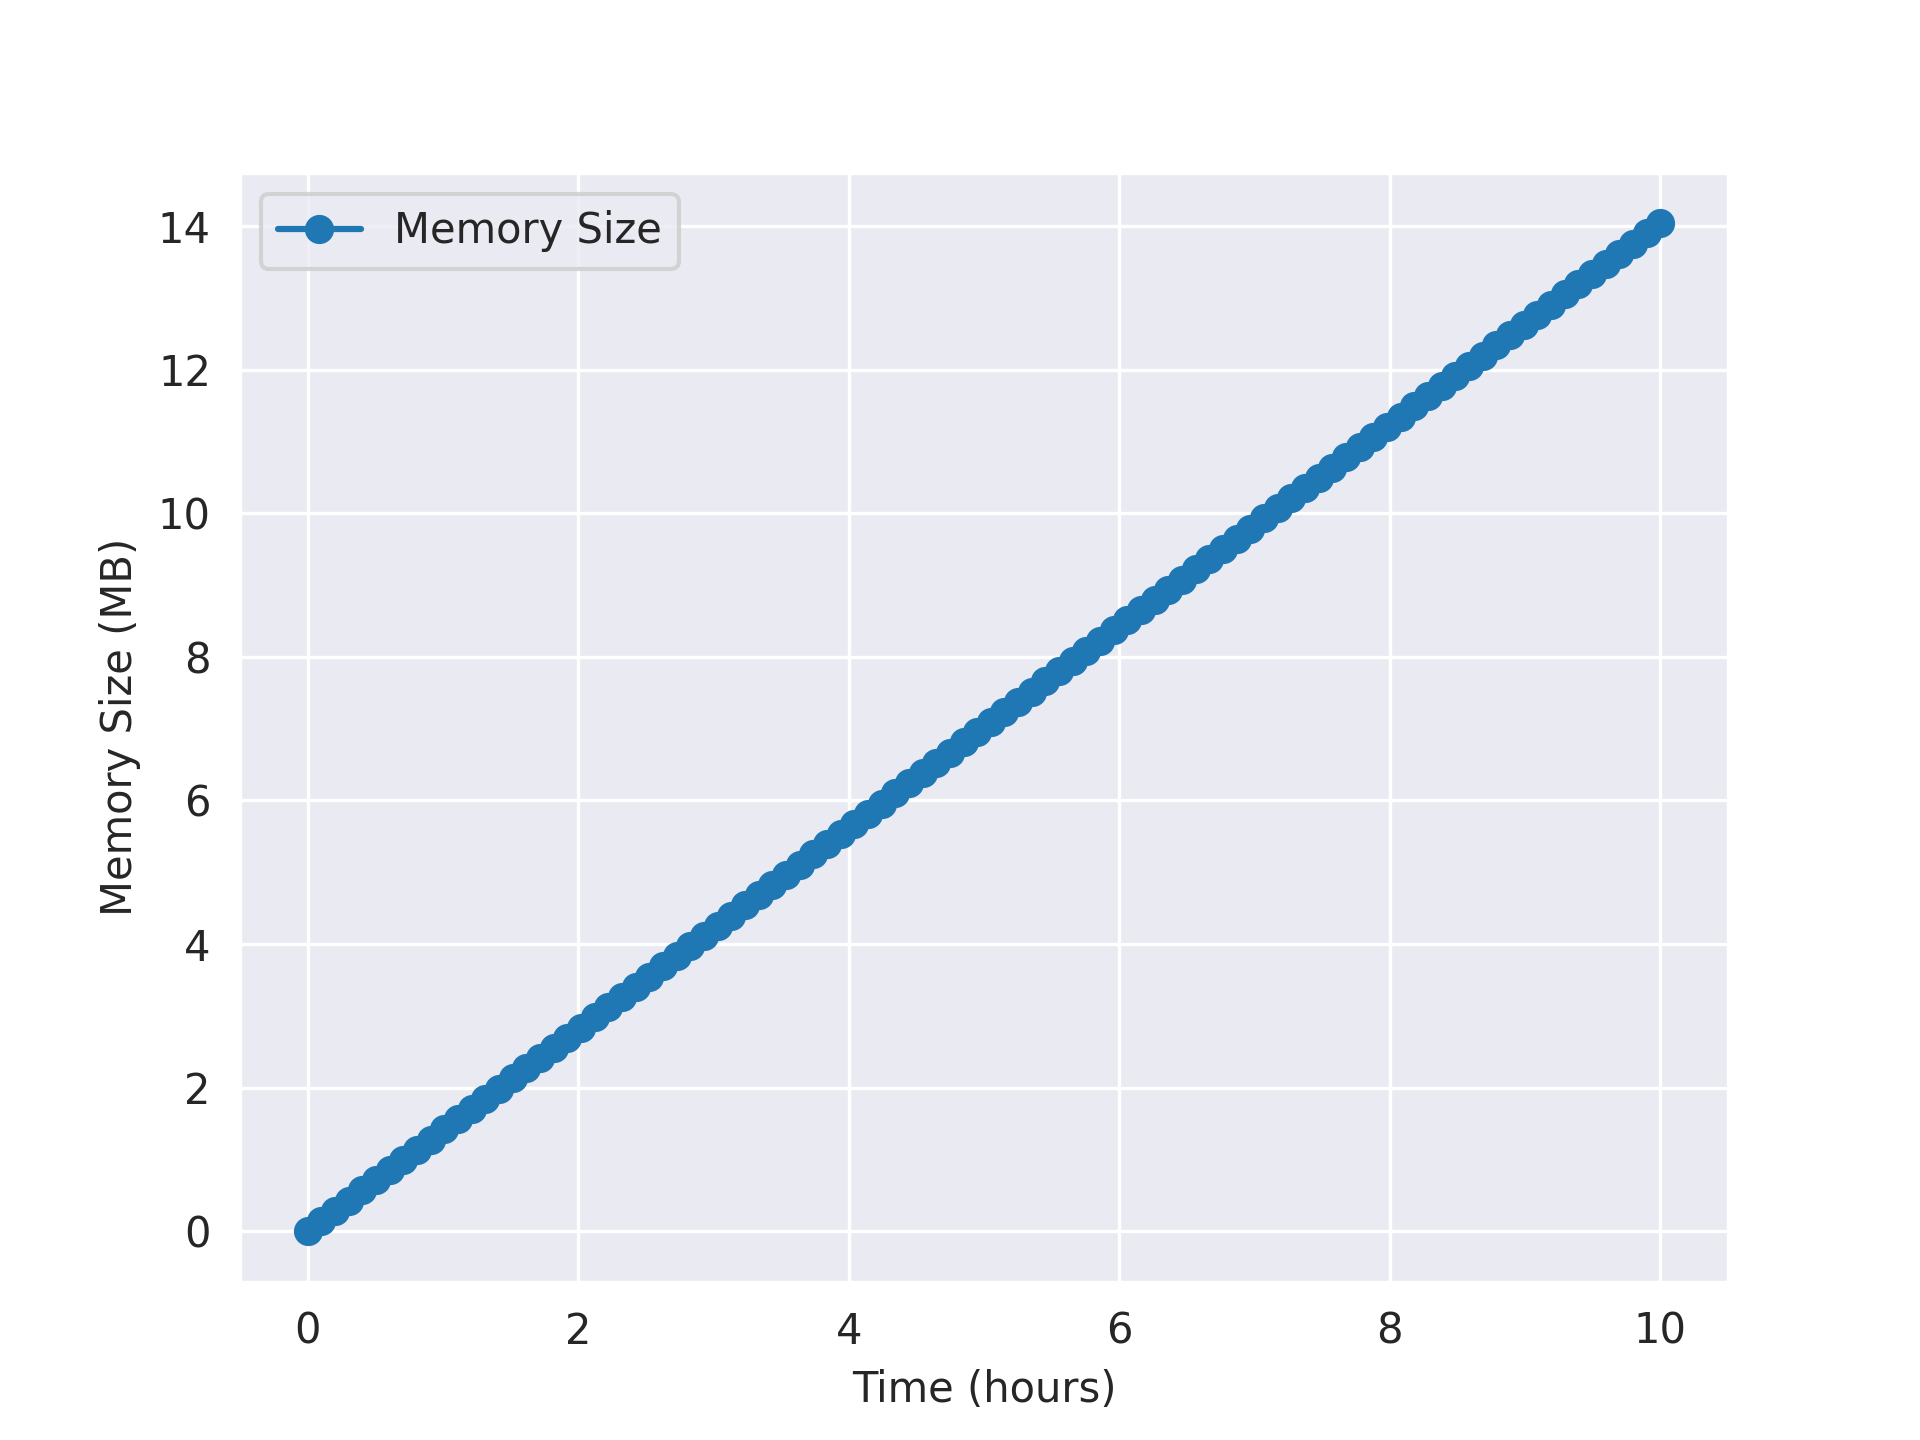
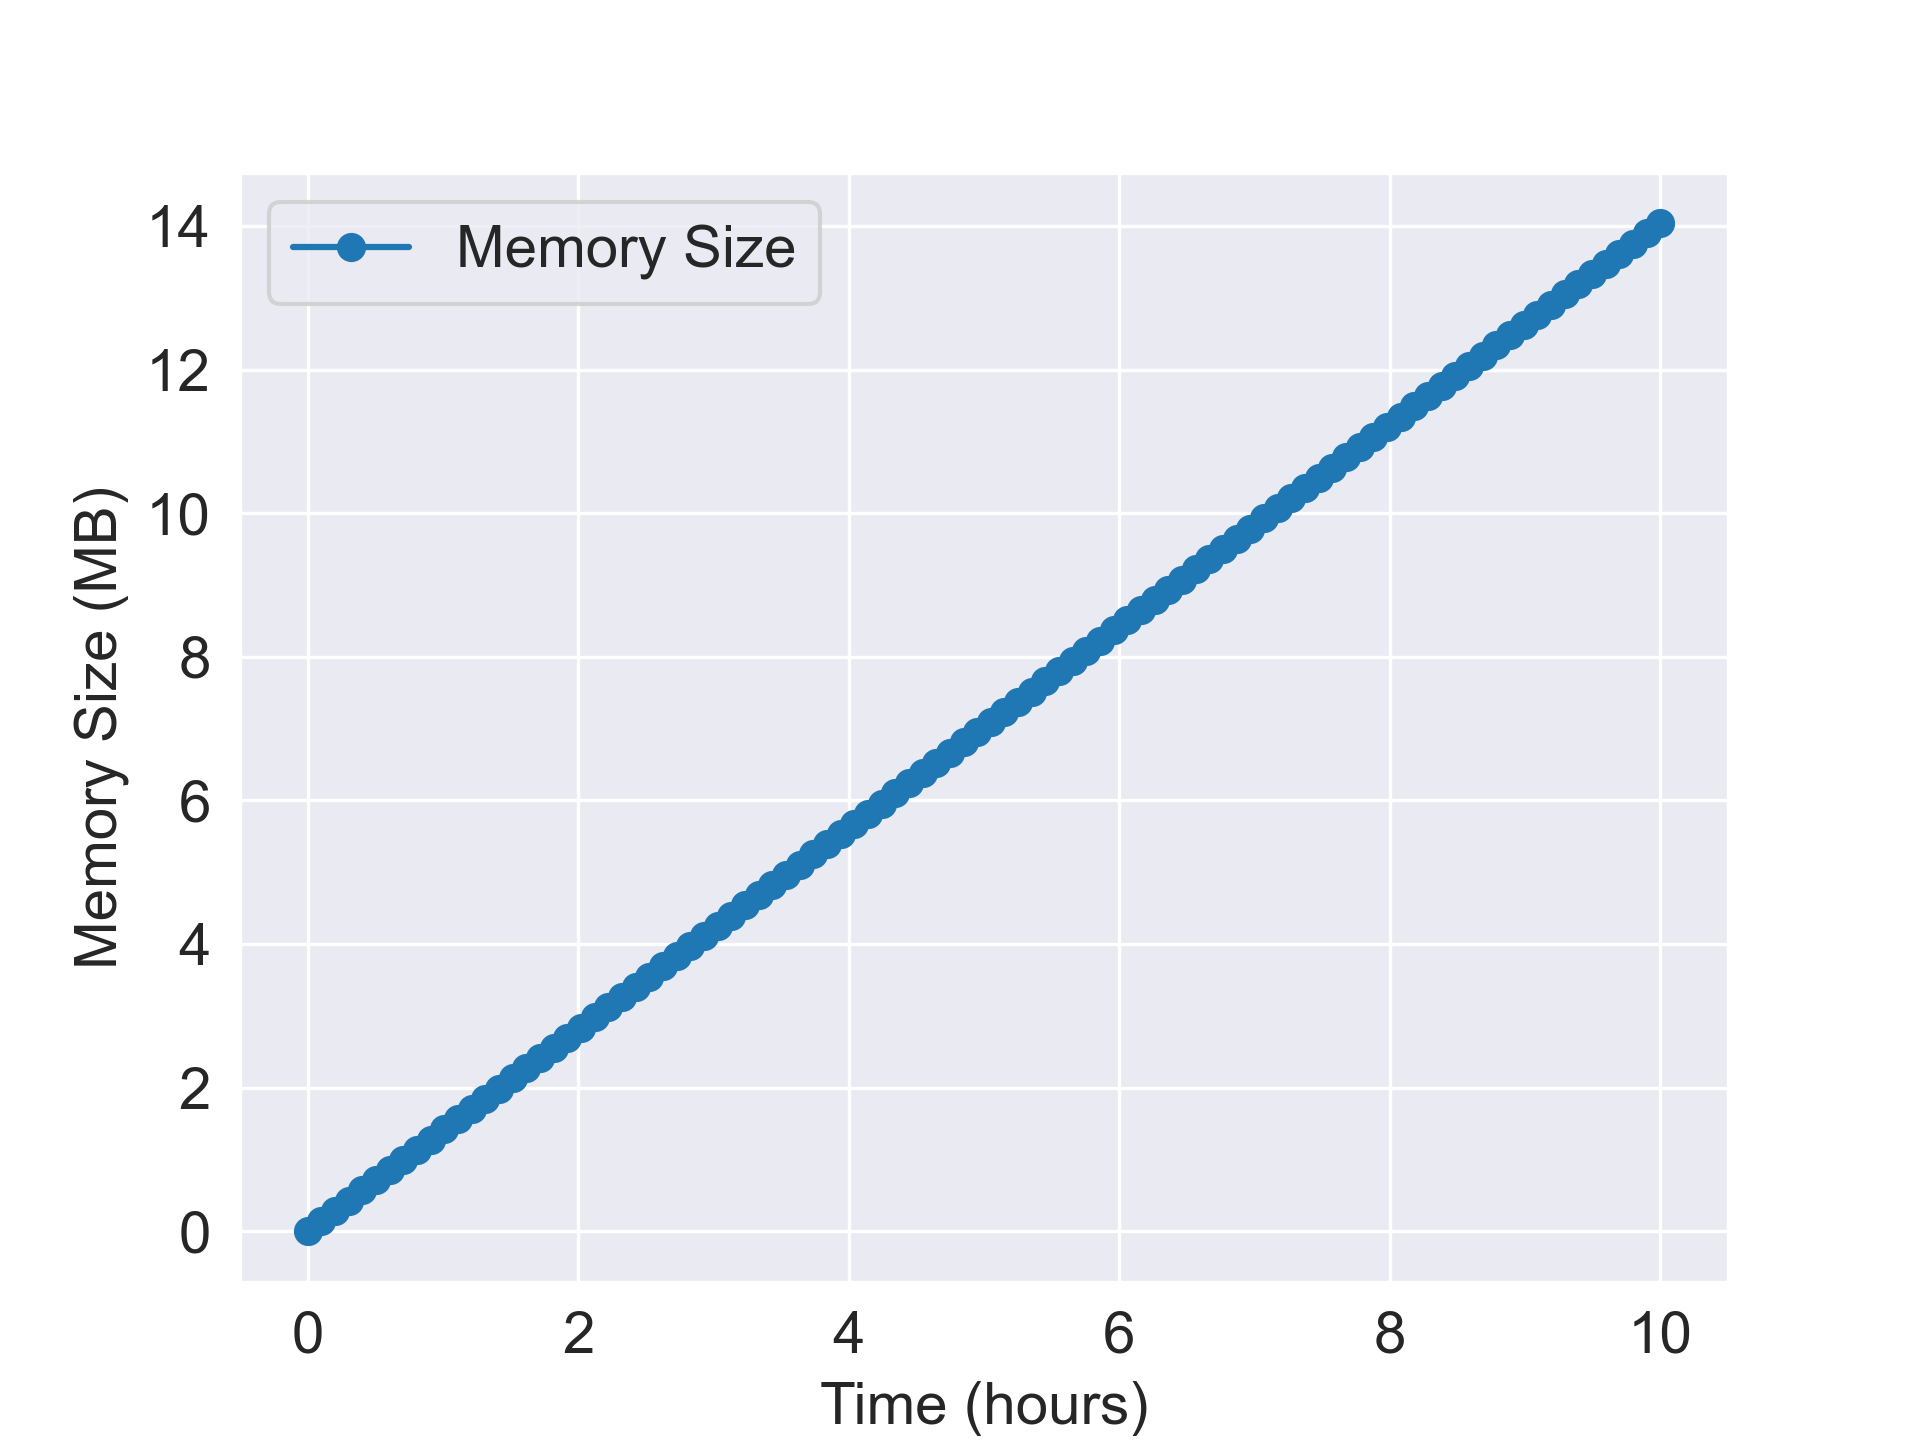
change font size in series graph

diff --git a/charts/size_series.py b/charts/size_series.py
@@ -15,6 +15,8 @@ size_intervals_bytes = size_per_minute * time_intervals # Total size in bytes fo
 # Convert the size to megabytes (1 MB = 1,048,576 bytes)
 size_intervals_mb = size_intervals_bytes / 1048576 # Size in megabytes
 
+plt.rcParams.update({'font.size': 14})
+
 # Plotting the graph
 plt.plot(time_intervals / 60, size_intervals_mb, label="Memory Size", linestyle='-', marker='o')
 
